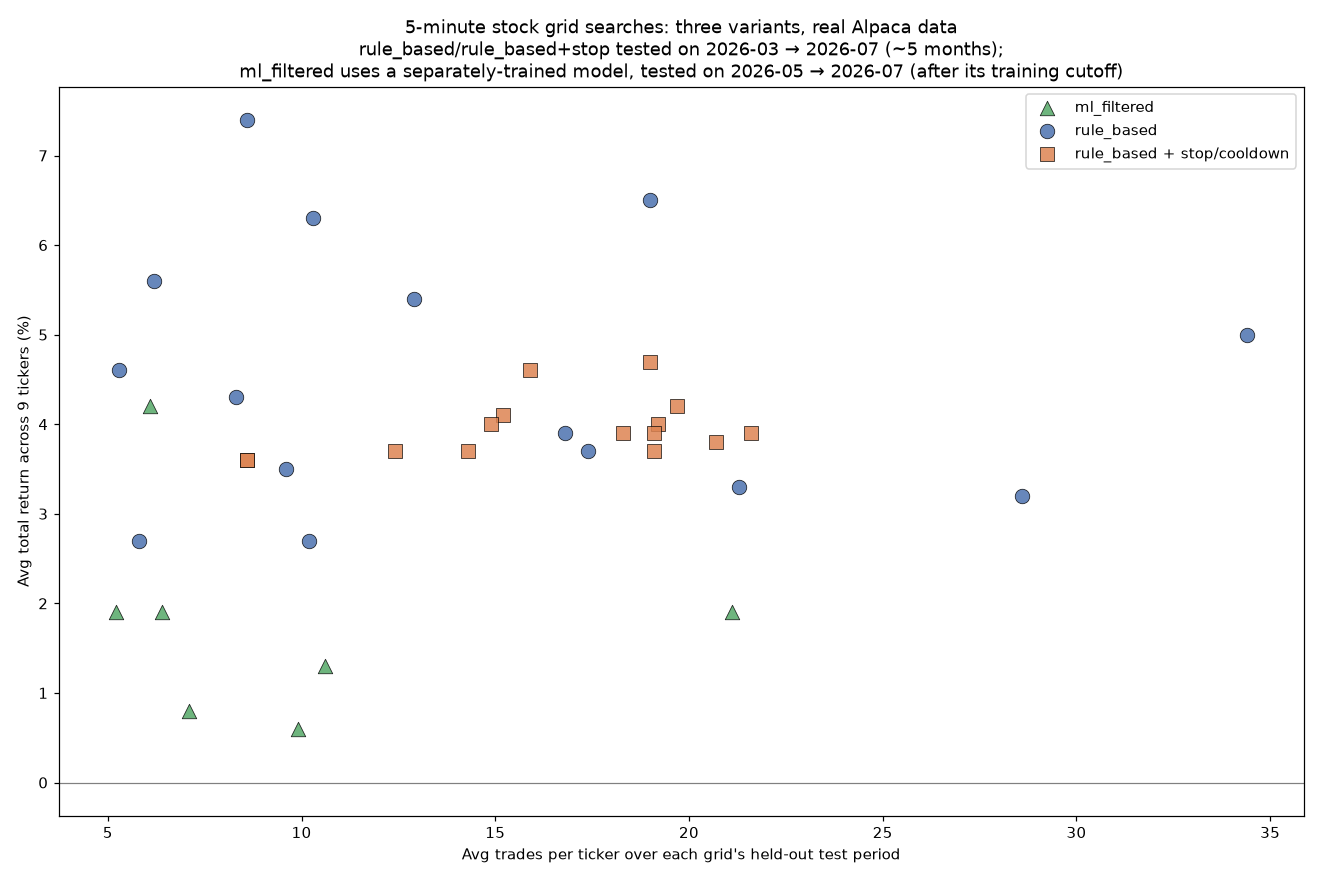
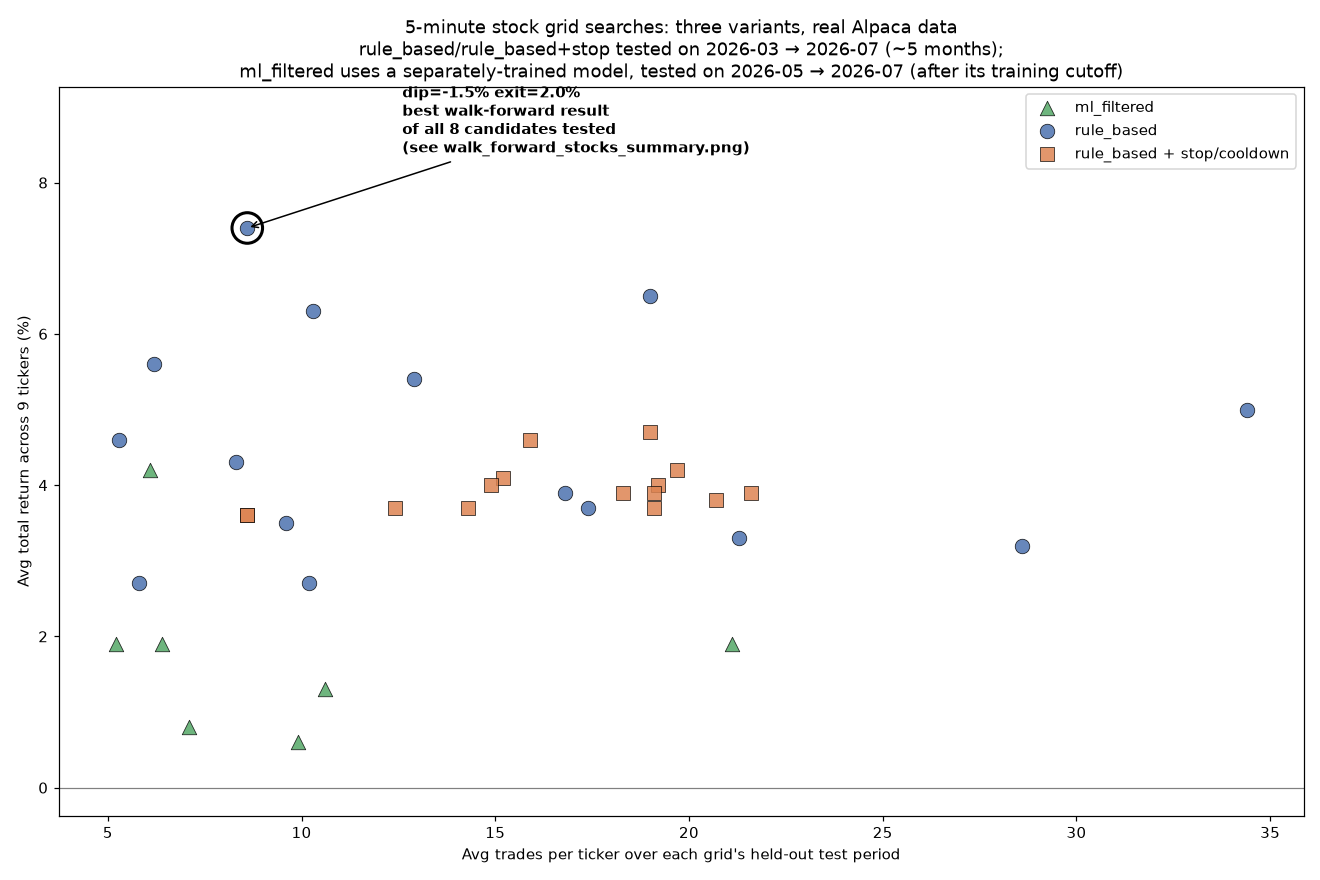
Clearly identify the best-of-8 stock candidate in README/docs (v0.9.3)
Of the 8 candidates walk-forward tested, rule_based on 5-minute bars
(dip=-1.5% exit=2.0%) stands out: 17.5% ticker-window loss rate vs 25-32%
for every other candidate, with a mid-pack return rather than trading
consistency away for it. Regenerated the three summary charts to
visually mark it (outlined/circled, annotated) instead of showing all 8
with no distinction. Still explicitly not a proven edge - thin sample,
one year of data - and stocks remain paused.

diff --git a/README.md b/README.md
@@ -1,6 +1,6 @@
 <div align="center">
 
-# InvestingBot — Version Richards 0.9.2
+# InvestingBot — Version Richards 0.9.3
 
 [![Python 3.12+](https://img.shields.io/badge/python-3.12%2B-3776AB?logo=python&logoColor=white)](https://www.python.org/downloads/)
 [![Tests: 71 passing](https://img.shields.io/badge/tests-71%20passing-4c9a2a)](tests/)
@@ -77,6 +77,7 @@ actually running from workflow files six months from now.
 | Unit tests | 71 passing (`pytest tests/`) |
 | Real-money mode | Disabled (2 independent locks - see `docs/RISK.md`) |
 | Demonstrated edge | No |
+| Best-of-8 stock candidate (not deployed) | `rule_based`, 5m, dip=-1.5%/exit=2.0% - lowest loss rate (17.5%), still not proven |
 | Closed live trades (current config) | 0 - archived 3 prior trades, see below |
 | Max crypto purchase (`--max-notional`) | $2,000 |
 | Daily loss circuit breaker (`--daily-loss-limit`) | 5% |
@@ -134,32 +135,41 @@ This is a snapshot and will be stale by the time you read it - check
   (healthcare), KO (staples), CAT (industrials), DIS (media) - spanning
   several sectors on purpose, the same "one ticker isn't a real edge"
   principle crypto's validation already leans on.
-- **Stock validation: 8 candidates walk-forward tested, none cleared the
-  bar.** Across an extensive search - daily and 5-minute bars, the plain
-  `rule_based` rule, a version with a hard stop-loss and re-entry
-  cooldown added, and `ml_filtered` (the same rule gated by a trained ML
-  model) - every candidate's walk-forward loss rate landed in roughly
-  the same 17-32% range, and no combination of return/consistency/trade
-  count stood out as genuinely robust. This is an honest result, not a
-  dead end: it means dip-buying these 9 stocks hasn't shown a real edge
-  yet at either resolution, with or without an ML filter, the same
-  place crypto's own validation started before `walk_forward.py` found
-  something worth trusting. `get_stock_bars_range()`
-  (`src/alpaca_data.py`) lets stocks pull intraday bars from Alpaca now,
-  the same way crypto does; `rule_based_dip_buy()` gained an optional
-  `stop_loss` + `stop_cooldown_bars` (a real walk-forward run found the
-  stop-loss alone could backfire - SPY's 2019-2021 window went from
-  -3.2% to -27.4% - fixed by adding the cooldown); `optimize.py`/
-  `walk_forward.py`/`train_stock_model.py` all gained `--strategy
-  ml_filtered` support. Every grid and walk-forward run is committed as
-  real evidence in `results/` (see `docs/RESEARCH.md` for the full
-  candidate-by-candidate breakdown and every command used).
+- **Stock validation: 8 candidates walk-forward tested. Best of the 8:
+  `rule_based`, 5-minute bars, dip=-1.5% / exit=2.0%.** Across an
+  extensive search - daily and 5-minute bars, the plain `rule_based`
+  rule, a version with a hard stop-loss and re-entry cooldown added, and
+  `ml_filtered` (the same rule gated by a trained ML model) - this one
+  candidate stood out clearly: its walk-forward loss rate (**17.5%** of
+  ticker-windows) is well below every other candidate's (which cluster
+  25-32%), while its average return (3.06%/ticker) is still solidly
+  mid-pack, not a trade-off against the best. **Why it's the best of the
+  8, not just the highest number:** every other candidate that scored
+  well on one axis (return, or trade count) scored poorly on another
+  (consistency, or sample size) - this is the only one that didn't trade
+  that strength away. See it circled in the charts below and compared
+  directly against all 7 others in the summary chart. **Still not a
+  proven edge** - one year of 5-minute data is a much shorter validation
+  window than crypto's, and 8.6 average trades per ticker is a real but
+  thin sample. Read it as "the strongest lead of what's been tried,"
+  not "ready to deploy." Stocks stay paused either way (see below) until
+  a candidate clears a materially higher bar than this.
+  `get_stock_bars_range()` (`src/alpaca_data.py`) lets stocks pull
+  intraday bars from Alpaca now, the same way crypto does;
+  `rule_based_dip_buy()` gained an optional `stop_loss` +
+  `stop_cooldown_bars` (a real walk-forward run found the stop-loss
+  alone could backfire - SPY's 2019-2021 window went from -3.2% to
+  -27.4% - fixed by adding the cooldown); `optimize.py`/`walk_forward.py`/
+  `train_stock_model.py` all gained `--strategy ml_filtered` support.
+  Every grid and walk-forward run is committed as real evidence in
+  `results/` (see `docs/RESEARCH.md` for the full candidate-by-candidate
+  breakdown and every command used).
 
-  <img src="results/walk_forward_stocks_summary.png" alt="Two side-by-side bar charts comparing all 8 walk-forward-tested stock candidates: average return per ticker on the left, percent of losing ticker-windows on the right, colored by strategy variant (plain rule, rule plus stop-loss, ML-filtered). Returns vary from about 0 to 5 percent; loss rates cluster tightly between roughly 17 and 32 percent across every candidate regardless of variant." width="720">
+  <img src="results/walk_forward_stocks_summary.png" alt="Two side-by-side bar charts comparing all 8 walk-forward-tested stock candidates: average return per ticker on the left, percent of losing ticker-windows on the right, colored by strategy variant (plain rule, rule plus stop-loss, ML-filtered). The 5-minute dip=-1.5%/exit=2.0% candidate is outlined in black and marked with a star, with an annotation pointing out its clearly lower loss rate (about 17.5%) compared to every other candidate (25-32%), while its return sits mid-pack." width="720">
 
-  <img src="results/param_sweep_overview_stocks_daily_all.png" alt="Scatter plot combining three daily grid searches (plain rule-based, rule-based with stop-loss and cooldown, and ML-filtered), average trades per ticker on the x-axis, average return on the y-axis. The ML-filtered points (triangles) sit in a visibly lower return band than the plain-rule points (circles and squares), which cluster together around 20-25 percent." width="720">
+  <img src="results/param_sweep_overview_stocks_daily_all.png" alt="Scatter plot combining three daily grid searches (plain rule-based, rule-based with stop-loss and cooldown, and ML-filtered), average trades per ticker on the x-axis, average return on the y-axis. The ML-filtered points (triangles) sit in a visibly lower return band than the plain-rule points (circles and squares), which cluster together around 20-25 percent. A note box explains that the overall best-of-8 candidate actually came from the 5-minute search shown in the next chart, not from this daily one." width="720">
 
-  <img src="results/param_sweep_overview_stocks_5m_all.png" alt="Scatter plot combining three 5-minute grid searches (plain rule-based, rule-based with stop-loss and cooldown, and ML-filtered). All three variants' points are intermixed in a loose cloud between roughly 0 and 7 percent return, with no variant clearly separated from the others." width="720">
+  <img src="results/param_sweep_overview_stocks_5m_all.png" alt="Scatter plot combining three 5-minute grid searches (plain rule-based, rule-based with stop-loss and cooldown, and ML-filtered). All three variants' points are intermixed in a loose cloud between roughly 0 and 7 percent return. One point - dip=-1.5% exit=2.0%, plain rule-based - is circled and labeled as the best walk-forward result of all 8 candidates tested." width="720">
 - **Dashboard: five panels, regenerated hourly.** `results/trade_dashboard.png`
   is committed automatically, viewable directly on github.com: one
   whole-account net gain/loss panel, plus cumulative realized P&L and

diff --git a/docs/RESEARCH.md b/docs/RESEARCH.md
@@ -447,15 +447,14 @@ ticker (Alpaca's free feed only covers about a trailing year, versus
 daily's 11), so it isn't committed as evidence yet - unlike the daily
 results above, this one needs the stop-loss re-test first.
 
-## Final tally: 8 candidates walk-forward tested, none cleared the bar
+## Final tally: 8 candidates walk-forward tested - one clear best, still not a proven edge
 
 This is the honest conclusion after the full search across daily and
 5-minute bars, plain `rule_based`, `rule_based` with a stop-loss +
 re-entry cooldown, and `ml_filtered` (the same rule gated by a trained
-model): **no candidate came out as a robust, walk-forward-consistent
-edge.** Every one landed in roughly the same 17-32% ticker-window loss
-rate, regardless of strategy variant, bar size, or whether an ML filter
-was layered on top:
+model). Most candidates landed in roughly the same 17-32% ticker-window
+loss rate regardless of variant, bar size, or ML filter - but one is a
+clear step above the rest, **bolded** below:
 
 | Candidate | Interval | Avg return/ticker | Losing ticker-windows |
 |---|---|---|---|
@@ -463,10 +462,28 @@ was layered on top:
 | dip=-6% exit=1% | daily | 3.3% | 19/63 (30%) |
 | dip=-8% exit=1% | daily | 2.7% | 16/63 (25%) |
 | dip=-3% exit=1% stop=15% cooldown=5 | daily | 5.1% | 18/63 (29%) |
-| dip=-1.5% exit=2.0% | 5-minute | 3.1% | 11/63 (18%) |
+| **dip=-1.5% exit=2.0%** | **5-minute** | **3.1%** | **11/63 (17.5%)** |
 | dip=-1.5% exit=0.8% | 5-minute | 0.7% | 18/63 (29%) |
 | dip=-1.5% exit=0.8% stop=3% cooldown=78 | 5-minute | 0.2% | 20/63 (32%) |
 | ml_filtered dip=-7% exit=2% | daily | 1.1% | 16/54 (30%) |
+
+**Why `dip=-1.5% exit=2.0%` (5-minute) is the best of the 8, not just
+the highest number on some axis**: every other candidate that scored
+well on one dimension gave it back on another. The two daily candidates
+with the highest returns (5.1%) also have the two highest loss rates
+(29-32%). The safest-looking daily candidates (`-8%/1%`) only get there
+by trading so rarely that "safe" mostly means "untested." This one is
+different - its loss rate (17.5%) is meaningfully lower than *every
+other candidate's*, by a wide enough margin that it isn't just noise,
+while its return (3.1%) still sits in the middle of the pack rather than
+being traded away for that consistency. That combination - clearly
+better on the axis that matters most (does it hold up over time) without
+giving up return to get it - is what makes it the standout, not an
+arbitrary pick. It is **still not a proven edge**: a year of 5-minute
+Alpaca data is a much shorter validation window than crypto's, and 8.6
+average trades per ticker, while more real signal than the daily
+under-trading problem, is still a thin sample to stake much confidence
+on.
 
 Full table: [`results/walk_forward_stocks_summary.csv`](../results/walk_forward_stocks_summary.csv).
 Every candidate's raw per-window data is also committed:
@@ -481,11 +498,11 @@ Every grid search behind these candidates is committed too:
 [`results/param_sweep_stocks_5m_stop.csv`](../results/param_sweep_stocks_5m_stop.csv),
 [`results/param_sweep_stocks_5m_ml_filtered.csv`](../results/param_sweep_stocks_5m_ml_filtered.csv).
 
-<img src="../results/walk_forward_stocks_summary.png" alt="Two side-by-side bar charts comparing all 8 walk-forward-tested stock candidates: average return per ticker on the left, percent of losing ticker-windows on the right, colored by strategy variant. Returns vary from about 0 to 5 percent; loss rates cluster tightly between roughly 17 and 32 percent across every candidate regardless of variant." width="720">
+<img src="../results/walk_forward_stocks_summary.png" alt="Two side-by-side bar charts comparing all 8 walk-forward-tested stock candidates: average return per ticker on the left, percent of losing ticker-windows on the right, colored by strategy variant. The 5-minute dip=-1.5%/exit=2.0% candidate is outlined in black with a star and an annotation calling out its clearly lower loss rate (about 17.5%) versus every other candidate (25-32%), while its return still sits mid-pack." width="720">
 
-<img src="../results/param_sweep_overview_stocks_daily_all.png" alt="Scatter plot combining three daily grid searches - plain rule-based, rule-based with stop-loss and cooldown, and ML-filtered - average trades per ticker on the x-axis, average return on the y-axis. The ML-filtered points sit in a visibly lower return band than the plain-rule points." width="720">
+<img src="../results/param_sweep_overview_stocks_daily_all.png" alt="Scatter plot combining three daily grid searches - plain rule-based, rule-based with stop-loss and cooldown, and ML-filtered - average trades per ticker on the x-axis, average return on the y-axis. The ML-filtered points sit in a visibly lower return band than the plain-rule points. A note box clarifies the overall best-of-8 candidate actually came from the 5-minute search in the next chart, not from this daily one." width="720">
 
-<img src="../results/param_sweep_overview_stocks_5m_all.png" alt="Scatter plot combining three 5-minute grid searches - plain rule-based, rule-based with stop-loss and cooldown, and ML-filtered. All three variants are intermixed in a loose cloud with no variant clearly separated from the others." width="720">
+<img src="../results/param_sweep_overview_stocks_5m_all.png" alt="Scatter plot combining three 5-minute grid searches - plain rule-based, rule-based with stop-loss and cooldown, and ML-filtered. All three variants are intermixed in a loose cloud with no variant clearly separated from the others, except one circled and labeled point - dip=-1.5% exit=2.0%, plain rule-based - marked as the best walk-forward result of all 8 candidates tested." width="720">
 
 **Important caveat on the two grid-search overview charts above**: the
 three daily grids were NOT all tested over the same held-out period, and

diff --git a/CHANGELOG.md b/CHANGELOG.md
@@ -17,6 +17,26 @@ The `0.x.x` line is "Version Richards"; `1.0.0`+ becomes "Version Giroux."
   regime the most recent real year happened to contain.
 - No known open correctness bugs (true as of 0.5.2).
 
+## Version Richards 0.9.3 - 2026-07-27
+
+- Clarified: of the 8 stock candidates walk-forward tested this session,
+  `rule_based` on 5-minute bars (`dip=-1.5% exit=2.0%`) is the clear
+  best - its ticker-window loss rate (17.5%) is well below every other
+  candidate's (25-32%), while its average return (3.06%/ticker) still
+  sits mid-pack rather than being traded away for that consistency.
+  Previously the README/`docs/RESEARCH.md` reported all 8 candidates
+  side by side with no single one called out, which understated a real
+  finding: this one is a meaningfully better result than the rest, not
+  just a different one. Still explicitly **not** a proven edge - one
+  year of 5-minute data and 8.6 average trades/ticker is a thin sample -
+  and stocks remain paused either way.
+- `results/walk_forward_stocks_summary.png`,
+  `results/param_sweep_overview_stocks_5m_all.png`, and
+  `results/param_sweep_overview_stocks_daily_all.png` regenerated to
+  visually mark this candidate (outlined/circled with an annotation)
+  instead of showing all 8 with no distinction. README's "Current live
+  status" table now has a dedicated row for it.
+
 ## Version Richards 0.9.2 - 2026-07-27
 
 - README given a visual pass - not a single word of its actual content
